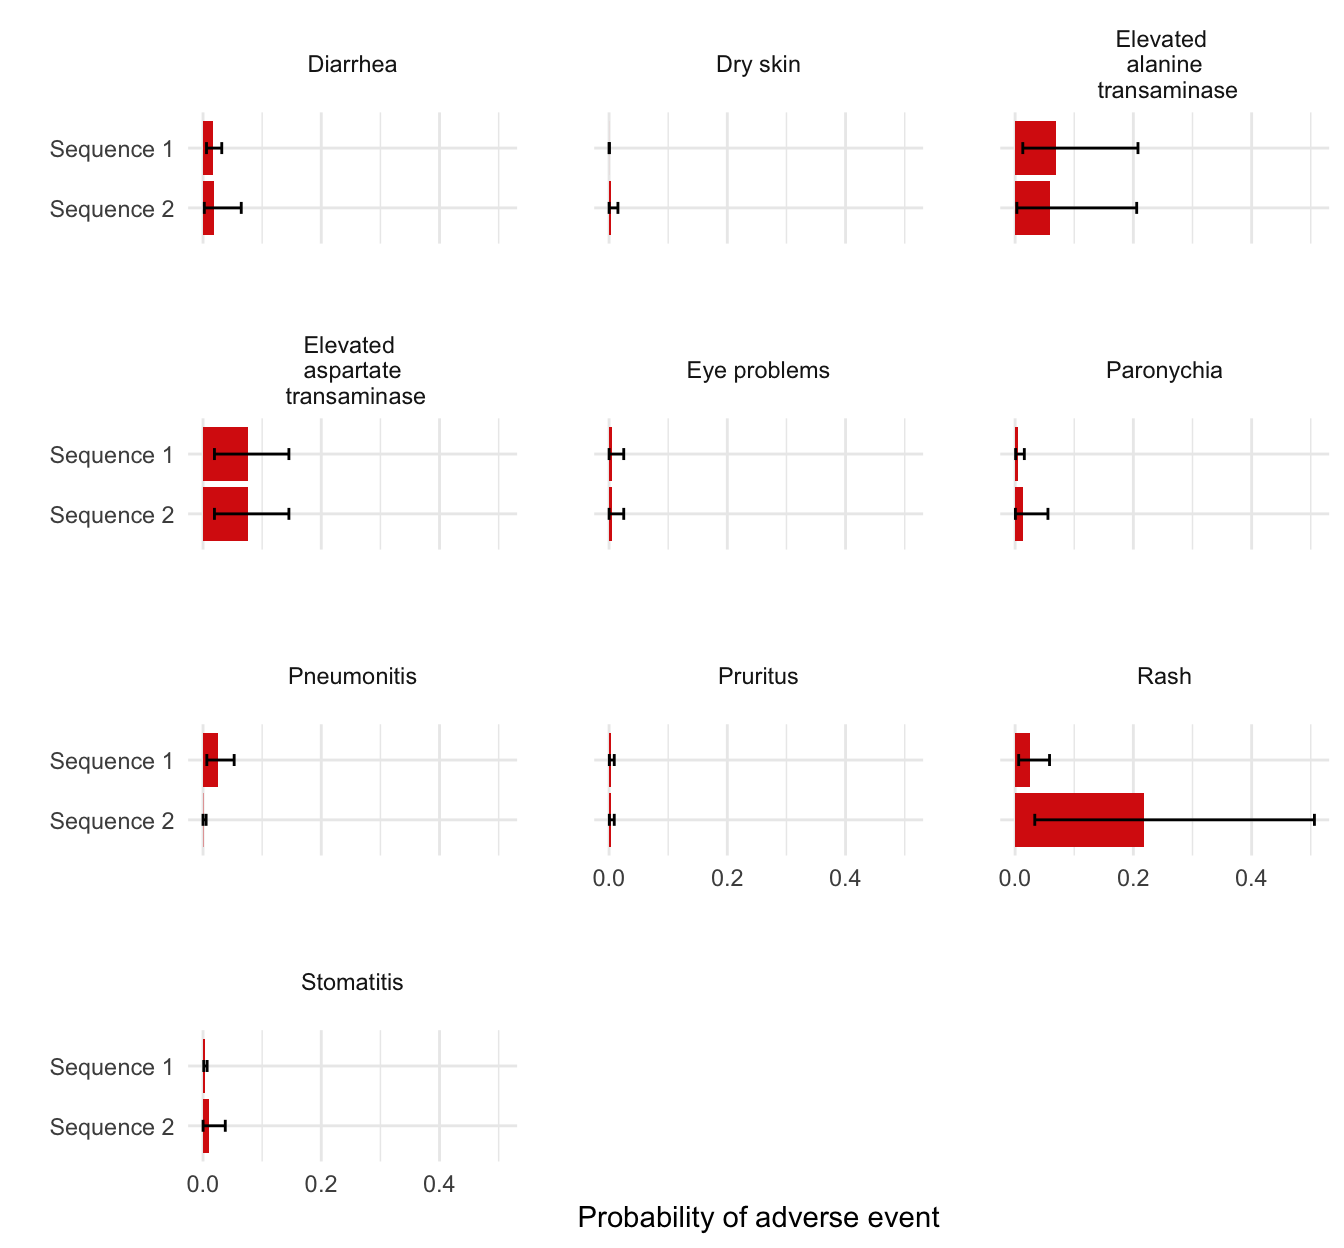
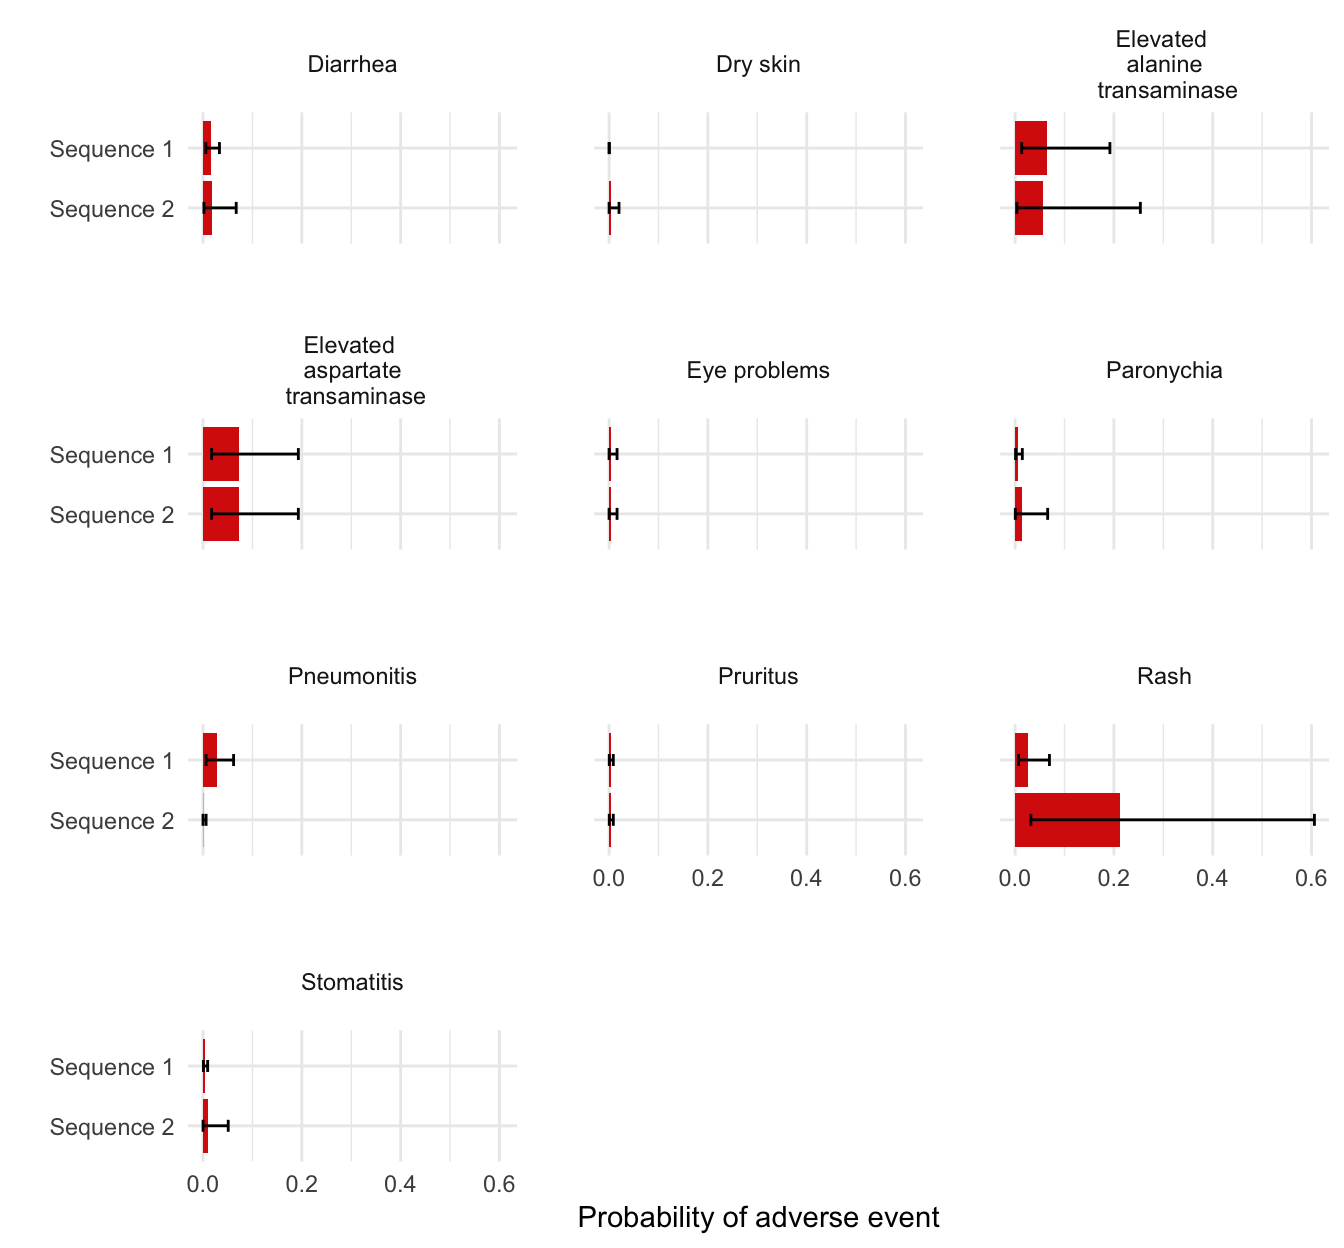
Three updates to tutorial. (1) PSA iteration is size 1000 to make CEAC smoother. (2) Updated inpatient and outpatient costs. (3) CEAC is no longer pairwise but probability each treatment is most cost effective

diff --git a/docs/articles/tutorial.html b/docs/articles/tutorial.html
@@ -63,7 +63,7 @@
     <div class="page-header toc-ignore">
       <h1>Tutorial</h1>
             
-            <h4 class="date">2018-12-02</h4>
+            <h4 class="date">2018-12-20</h4>
       
       <small class="dont-index">Source: <a href="https://github.com/InnovationValueInitiative/IVI-NSCLC/blob/master/vignettes/tutorial.Rmd"><code>vignettes/tutorial.Rmd</code></a></small>
       <div class="hidden name"><code>tutorial.Rmd</code></div>
@@ -237,7 +237,7 @@ tmat_3_2L &lt;-<span class="st"> </span><span class="kw"><a href="../reference/c
 <h2 class="hasAnchor">
 <a href="#constructing-the-model" class="anchor"></a><span class="header-section-number">3.2</span> Constructing the model</h2>
 <p>We construct the economic model by combining the separate models for the health state transitions, utility, and costs.</p>
-<div class="sourceCode"><pre class="sourceCode r"><code class="sourceCode r">n_samples &lt;-<span class="st"> </span><span class="dv">100</span></code></pre></div>
+<div class="sourceCode"><pre class="sourceCode r"><code class="sourceCode r">n_samples &lt;-<span class="st"> </span><span class="dv">1000</span></code></pre></div>
 <div id="health-state-transition-model" class="section level3">
 <h3 class="hasAnchor">
 <a href="#health-state-transition-model" class="anchor"></a><span class="header-section-number">3.2.1</span> Health state transition model</h3>
@@ -248,11 +248,11 @@ transmod_data &lt;-<span class="st"> </span><span class="kw"><a href="../referen
 ## Print first 5 rows and and 10 covariates from data
 <span class="kw">print</span>(transmod_data[<span class="dv">1</span><span class="op">:</span><span class="dv">5</span>, <span class="dv">1</span><span class="op">:</span><span class="dv">10</span>]) </code></pre></div>
 <pre><code>##    strategy_id patient_id transition_id female      age mutation tx_abb
-## 1:           1          1             1      1 71.78166        1    gef
-## 2:           1          1             2      1 71.78166        1    gef
-## 3:           1          1             3      1 71.78166        1    gef
-## 4:           1          2             1      0 76.04444        0    gef
-## 5:           1          2             2      0 76.04444        0    gef
+## 1:           1          1             1      0 71.29506        1    gef
+## 2:           1          1             2      0 71.29506        1    gef
+## 3:           1          1             3      0 71.29506        1    gef
+## 4:           1          2             1      1 99.98211        1    gef
+## 5:           1          2             2      1 99.98211        1    gef
 ##    tx_hist gef_s1p1_a0 gef_s1d_a0
 ## 1:      NA           1          0
 ## 2:      NA           0          1
@@ -265,11 +265,11 @@ transmod_params &lt;-<span class="st"> </span><span class="kw"><a href="../refer
 ## match those in 'transmod_data')
 transmod_params<span class="op">$</span>coefs<span class="op">$</span>a0[<span class="dv">1</span><span class="op">:</span><span class="dv">5</span>, <span class="dv">1</span><span class="op">:</span><span class="dv">4</span>]</code></pre></div>
 <pre><code>##      d_erl_s1p1_a0 d_erl_s1d_a0 d_erl_p1d_a0 gef_s1p1_a0
-## [1,]    0.07207523            0  0.002938007   -3.861773
-## [2,]   -0.13506322            0 -0.070306356   -3.565563
-## [3,]    0.71015446            0  0.166539568   -3.804967
-## [4,]   -0.35735663            0  0.119142598   -3.549524
-## [5,]    0.44007755            0  0.443100954   -3.935924</code></pre>
+## [1,]     0.2986270            0    0.2805289   -3.890694
+## [2,]    -0.3636329            0    0.4860480   -3.834058
+## [3,]    -0.9435711            0    0.2284253   -3.494240
+## [4,]    -0.6882378            0    0.4932394   -3.764138
+## [5,]    -0.9982084            0    0.4455455   -3.607147</code></pre>
 <div class="sourceCode"><pre class="sourceCode r"><code class="sourceCode r"><span class="co"># Health state transition model</span>
 transmod &lt;-<span class="st"> </span><span class="kw"><a href="../reference/create_transmod.html">create_transmod</a></span>(<span class="dt">params =</span> transmod_params, <span class="dt">data =</span> transmod_data)
 <span class="kw">class</span>(transmod)</code></pre></div>
@@ -528,27 +528,27 @@ knitr<span class="op">::</span><span class="kw"><a href="http://www.rdocumentati
 <tr class="odd">
 <td>Incremental QALYs</td>
 <td align="left">-</td>
-<td align="left">0.48 (-0.35, 2.71)</td>
+<td align="left">0.39 (-0.45, 1.88)</td>
 </tr>
 <tr class="even">
 <td>Incremental costs ($)</td>
 <td align="left">-</td>
-<td align="left">36,273 (-48,202, 247,376)</td>
+<td align="left">55,784 (-175,116, 435,615)</td>
 </tr>
 <tr class="odd">
 <td>Incremental NMB ($)</td>
 <td align="left">-</td>
-<td align="left">11,273 (-8,274, 32,641)</td>
+<td align="left">-17,237 (-249,874, 137,279)</td>
 </tr>
 <tr class="even">
 <td>ICER ($ per QALY)</td>
 <td align="left">-</td>
-<td align="left">76,291</td>
+<td align="left">144,717</td>
 </tr>
 <tr class="odd">
 <td>Conclusion</td>
 <td align="left">-</td>
-<td align="left">Cost-effective</td>
+<td align="left">Not cost-effective</td>
 </tr>
 </tbody>
 </table>
@@ -565,11 +565,11 @@ xlim &lt;-<span class="st"> </span><span class="kw">max</span>(<span class="kw">
 <span class="st">  </span><span class="kw"><a href="https://ggplot2.tidyverse.org/reference/geom_abline.html">geom_abline</a></span>(<span class="dt">slope =</span> <span class="dv">100000</span>, <span class="dt">linetype =</span> <span class="st">"dashed"</span>) <span class="op">+</span>
 <span class="st">  </span><span class="kw"><a href="https://ggplot2.tidyverse.org/reference/geom_abline.html">geom_hline</a></span>(<span class="dt">yintercept =</span> <span class="dv">0</span>) <span class="op">+</span><span class="st"> </span><span class="kw"><a href="https://ggplot2.tidyverse.org/reference/geom_abline.html">geom_vline</a></span>(<span class="dt">xintercept =</span> <span class="dv">0</span>)</code></pre></div>
 <p><img src="tutorial_files/figure-html/ceplane-1.png" width="672"></p>
-<p>A cost-effectiveness acceptability curve (CEAC) is useful way to measure uncertainty in our decision about whether a treatment sequence is cost-effective. More precisely, the CEAC plots the proportion of simulations from the PSA that a treatment sequence is cost-effective relative to the comparator (y-axis) against different willingness to pay thresholds (x-axis).</p>
-<div class="sourceCode"><pre class="sourceCode r"><code class="sourceCode r"><span class="kw">strategy_factor</span>(icea_pw<span class="op">$</span>ceac)
-<span class="kw"><a href="https://ggplot2.tidyverse.org/reference/ggplot.html">ggplot</a></span>(icea_pw<span class="op">$</span>ceac, <span class="kw"><a href="https://ggplot2.tidyverse.org/reference/aes.html">aes</a></span>(<span class="dt">x =</span> k, <span class="dt">y =</span> prob, <span class="dt">col =</span> strategy_name)) <span class="op">+</span>
+<p>A cost-effectiveness acceptability curve (CEAC) is useful way to measure uncertainty in our decision about whether a treatment sequence is cost-effective. Here, we plot the proportion of simulations from the PSA that each treatment sequence is the most cost-effective option (y-axis) against different willingness to pay thresholds (x-axis).</p>
+<div class="sourceCode"><pre class="sourceCode r"><code class="sourceCode r"><span class="kw">strategy_factor</span>(icea<span class="op">$</span>mce)
+<span class="kw"><a href="https://ggplot2.tidyverse.org/reference/ggplot.html">ggplot</a></span>(icea<span class="op">$</span>mce, <span class="kw"><a href="https://ggplot2.tidyverse.org/reference/aes.html">aes</a></span>(<span class="dt">x =</span> k, <span class="dt">y =</span> prob, <span class="dt">col =</span> strategy_name)) <span class="op">+</span>
 <span class="st">  </span><span class="kw"><a href="https://ggplot2.tidyverse.org/reference/geom_path.html">geom_line</a></span>() <span class="op">+</span><span class="st"> </span><span class="kw"><a href="https://ggplot2.tidyverse.org/reference/labs.html">xlab</a></span>(<span class="st">"Willingness to pay"</span>) <span class="op">+</span>
-<span class="st">  </span><span class="kw"><a href="https://ggplot2.tidyverse.org/reference/labs.html">ylab</a></span>(<span class="st">"Probability cost-effective"</span>) <span class="op">+</span>
+<span class="st">  </span><span class="kw"><a href="https://ggplot2.tidyverse.org/reference/labs.html">ylab</a></span>(<span class="st">"Probability most cost-effective"</span>) <span class="op">+</span>
 <span class="st">  </span><span class="kw"><a href="https://ggplot2.tidyverse.org/reference/scale_continuous.html">scale_x_continuous</a></span>(<span class="dt">label =</span> scales<span class="op">::</span>dollar) <span class="op">+</span>
 <span class="st">  </span><span class="kw"><a href="https://ggplot2.tidyverse.org/reference/scale_hue.html">scale_colour_discrete</a></span>(<span class="dt">name =</span> <span class="st">""</span>)</code></pre></div>
 <p><img src="tutorial_files/figure-html/ceac-1.png" width="672"></p>
@@ -635,38 +635,38 @@ knitr<span class="op">::</span><span class="kw"><a href="http://www.rdocumentati
 <tbody>
 <tr class="odd">
 <td>Life-years stable disease</td>
-<td align="left">0.99 (0.90, 1.07)</td>
-<td align="left">1.93 (0.76, 5.01)</td>
+<td align="left">0.99 (0.90, 1.10)</td>
+<td align="left">1.82 (0.88, 4.02)</td>
 </tr>
 <tr class="even">
 <td>Life-years progressed 1L</td>
-<td align="left">1.78 (1.57, 2.02)</td>
-<td align="left">1.39 (0.96, 1.92)</td>
+<td align="left">1.79 (1.57, 2.05)</td>
+<td align="left">1.42 (0.96, 1.98)</td>
 </tr>
 <tr class="odd">
 <td>Health care sector costs</td>
-<td align="left">233,484 (209,857, 260,925)</td>
-<td align="left">269,757 (176,736, 475,965)</td>
+<td align="left">643,472 (546,591, 757,688)</td>
+<td align="left">699,256 (468,005, 1,114,471)</td>
 </tr>
 <tr class="even">
 <td>Productivity costs</td>
-<td align="left">71,263 (66,788, 75,551)</td>
-<td align="left">67,631 (52,251, 76,650)</td>
+<td align="left">72,775 (67,950, 77,167)</td>
+<td align="left">69,217 (54,121, 79,741)</td>
 </tr>
 <tr class="odd">
 <td>Route of administration</td>
-<td align="left">0.73 (0.71, 0.75)</td>
-<td align="left">0.79 (0.72, 0.87)</td>
+<td align="left">0.69 (0.67, 0.71)</td>
+<td align="left">0.76 (0.69, 0.84)</td>
 </tr>
 <tr class="even">
 <td>Years since FDA approval</td>
-<td align="left">5.95 (5.77, 6.15)</td>
-<td align="left">11.50 (10.60, 12.42)</td>
+<td align="left">6.39 (6.18, 6.60)</td>
+<td align="left">11.84 (11.27, 12.54)</td>
 </tr>
 <tr class="odd">
 <td>Diarrhea</td>
 <td align="left">0.02 (0.01, 0.03)</td>
-<td align="left">0.02 (0.00, 0.06)</td>
+<td align="left">0.02 (0.00, 0.07)</td>
 </tr>
 </tbody>
 </table>
@@ -698,38 +698,38 @@ knitr<span class="op">::</span><span class="kw"><a href="http://www.rdocumentati
 <tbody>
 <tr class="odd">
 <td>Life-years stable disease</td>
-<td align="left">4.49 (3.16, 5.65)</td>
-<td align="left">17.85 (1.20, 61.99)</td>
+<td align="left">5.97 (4.85, 7.25)</td>
+<td align="left">16.32 (4.52, 43.78)</td>
 </tr>
 <tr class="even">
 <td>Life-years progressed 1L</td>
-<td align="left">75.30 (59.22, 94.02)</td>
-<td align="left">45.10 (11.50, 86.53)</td>
+<td align="left">57.72 (45.44, 72.38)</td>
+<td align="left">37.16 (11.21, 68.35)</td>
 </tr>
 <tr class="odd">
 <td>Health care sector costs</td>
-<td align="left">85.24 (79.91, 89.83)</td>
-<td align="left">78.19 (38.09, 96.28)</td>
+<td align="left">82.92 (75.14, 89.51)</td>
+<td align="left">79.12 (50.86, 94.86)</td>
 </tr>
 <tr class="even">
 <td>Productivity costs</td>
-<td align="left">17.96 (7.27, 29.10)</td>
-<td align="left">27.00 (4.53, 65.32)</td>
+<td align="left">24.39 (15.62, 34.03)</td>
+<td align="left">31.50 (10.47, 61.66)</td>
 </tr>
 <tr class="odd">
 <td>Route of administration</td>
-<td align="left">18.27 (8.77, 26.72)</td>
-<td align="left">50.20 (13.78, 90.65)</td>
+<td align="left">17.25 (9.54, 25.18)</td>
+<td align="left">44.43 (15.88, 76.09)</td>
 </tr>
 <tr class="even">
 <td>Years since FDA approval</td>
-<td align="left">3.28 (0.72, 6.15)</td>
-<td align="left">82.90 (69.95, 96.08)</td>
+<td align="left">4.98 (1.91, 7.96)</td>
+<td align="left">83.72 (75.46, 93.80)</td>
 </tr>
 <tr class="odd">
 <td>Diarrhea</td>
-<td align="left">92.54 (84.84, 97.88)</td>
-<td align="left">91.32 (68.18, 99.75)</td>
+<td align="left">90.52 (81.28, 96.98)</td>
+<td align="left">89.48 (61.95, 99.19)</td>
 </tr>
 </tbody>
 </table>
